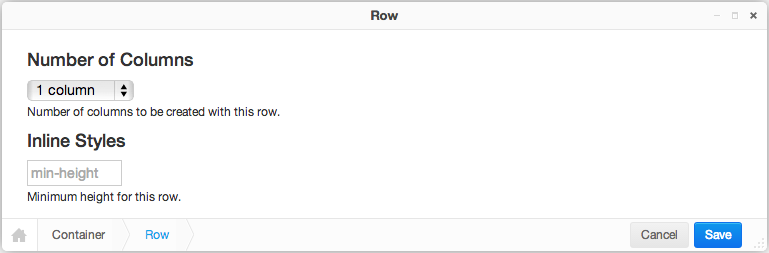
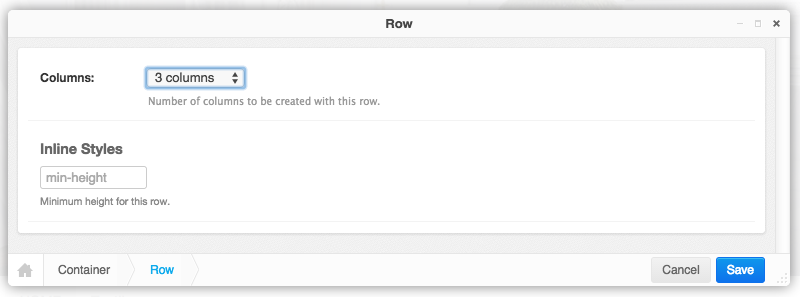
Added documentation for BS3 grid system

Changed region(s): [[0.0, 0.0, 1.0, 1.0], [0.156, 0.6087, 0.1873, 0.6364]]

diff --git a/examples/gs960/settings.py b/examples/gs960/settings.py
@@ -7,7 +7,7 @@ PROJECT_DIR = os.path.abspath(os.path.dirname(__file__))
 
 SITE_ID = 1
 
-ROOT_URLCONF = 'bootstrap3.urls'
+#ROOT_URLCONF = '.urls'
 
 SECRET_KEY = 'secret'
 

diff --git a/docs/source/bs3-grid.rst b/docs/source/bs3-grid.rst
@@ -1,0 +1,199 @@
+.. _bs3-grid:
+
+=======================
+Bootstrap 3 Grid system
+=======================
+In order to make full take full advantage of **djangocms-cascade**, you should be familiar with the
+concepts of the `Bootstrap Grid System`_, since all other Bootstrap components depend upon.
+
+.. _Bootstrap Grid System: http://getbootstrap.com/css/#grid
+
+Container
+=========
+A **Container** is the outermost component the Bootstrap framework knows of. Here the designer can
+specify the breakpoints of a Web site. By default, Bootstrap offers 4 breakpoints: “large”,
+“medium”, “small” and “tiny”. These determine for which kind of screen widths the grid system may
+switch the layout.
+
+The editor window for a Container element offers three options which affect all its child plugins.
+
+|edit-container|
+
+.. |edit-container| image:: _static/edit-container.png
+
+Small devices exclusively
+-------------------------
+If the Web site shall be optimized just for small but not for large devices, then set the
+**Widest Display** to *Medium*, *Small* or *Tiny*. In the project's style sheets, the maximum width
+of the container element, then must be reduced to that chosen breakpoint:
+
+.. code-block:: css
+
+	@media(min-width: 1200px) {
+	  .container {
+	    max-width: 970px;
+	  }
+	}
+
+or, if you prefers the SASS syntax:
+
+.. code-block:: css
+
+	@media(min-width: $screen-lg) {
+	  .container {
+	    max-width: $container-desktop;
+	  }
+	}
+
+Large devices exclusively
+-------------------------
+If the Web site shall be optimized just for large but not for small devices, then set the
+**Narrowest Display** to *Small*, *Medium* or *Large*. Here no adoption to the style sheets are
+required.
+
+Fluid Container
+---------------
+A variant of the normal Bootstrap Container is the Fluid Container. It can be enabled by a checkbox
+in the editors window. Fluid Containers have no hards breakpoints, they adopt their width to
+whatever the browser pretends.
+
+A fluid container makes it impossible to determine the maximum width of responsive images in
+advance. Hence, if responsive images shall be used, its use is discouraged. Please also see the note
+below.
+
+Row
+===
+Each Bootstrap Container may contain one or more Bootstrap Rows. A row does not accept any
+configuration setting. However, while editing, one can specify the number of columns. If adding a
+row, then this number of columns are added. If editing a row, then columns only are added, if this
+value exceeds the current number of columns. Reducing the number of columns does not delete any of
+them; they must explicitly be chosen from the context menu in structure view.
+
+|edit-row|
+
+Specifying the ``min-height`` in section **Inline Styles**, will add a style attribute to the
+``<div>`` element, rendering the row, using the chosen minimum height. The height must be specified
+in Pixels ``px`` or ``em``'s.
+
+.. |edit-row| image:: _static/edit-row.png
+
+Horizontal Rule
+===============
+A horizontal rule is used to separate rows optically from each other. The form editor accepts two
+inline styles, to specify the top and the bottom margin for such a rule.
+
+|rule-editor|
+
+.. |rule-editor| image:: _static/rule-editor.png
+
+Column
+======
+In the column editor, one can specify the width, the offset and the visibility of each column.
+These values can be set for each of the four breakpoints (*tiny*, *small*, *medium* and *large*),
+as specified by the Container Plugin.
+
+At the beginning this may feel rather complicate, but remember that **Bootstrap 3 is mobile first**,
+therefore all column settings, *first* are applied to the narrow breakpoints but can be overridden
+for larger breakpoints at a later stage. This is the reason why the editor starts with the column
+widths and offsets for tiny rather than large displays.
+
+|edit-column|
+
+.. |edit-column| image:: _static/edit-column.png
+
+.. note:: If the current column is member of a container which differs from the default breakpoint
+          settings (*large* for the widest, and *tiny* for the smallest display), then that column
+          editor shows up only with the input fields for the enabled breakpoints.
+
+Adding Plugins into a hard coded grid
+=====================================
+Sometimes the given Django template already defines a Bootstrap container, or even a row inside a
+container component. Example:
+
+.. code-block:: html
+
+	<div class="container">
+	    {% placeholder "Row Content" %}
+	</div>
+
+Here the Django templatetag ``{% placeholder "Row Content" %}`` requires a Row- rather than a
+Container-plugin. Now we must tell **djangocms-cascade** which breakpoints shall be allowed and what
+the containers extensions shall be. This must be hard-coded using the following setting:
+
+.. code-block:: python
+
+	CMS_PLACEHOLDER_CONF = {
+	    # other placeholder configurations ...
+	    'Row Content': {
+	        'plugins': ['BootstrapRowPlugin'],
+	        'parent_classes': {'BootstrapRowPlugin': []},
+	        'require_parent': False,
+	        'glossary': {
+	            'breakpoints': ['xs', 'sm', 'md', 'lg'],
+	            'container_max_widths': {'xs': 720, 'sm': 720, 'md': 940, 'lg': 1140},
+	        }
+	    }
+	}
+
+Please refer to the `DjangoCMS documentation`_ for details about these settings with the exception
+of ``glossary``. This setting is special to **djangocms-cascade**, it is a dictionary which gives
+the placeholder the ability to behave like a plugin for the Cascade app. Remember, each Cascade
+plugin stores all of its settings inside a Python dictionary which is serialized into a single
+database field. By having a placeholder behaving like a plugin, this dictionary must be emulated
+using the settings variable ``CMS_PLACEHOLDER_CONF``.
+
+.. _DjangoCMS documentation: https://django-cms.readthedocs.org/en/latest/basic_reference/configuration.html#std:setting-CMS_PLACEHOLDER_CONF
+
+Nested Columns and Rows
+=======================
+One of the great features of Bootstrap is the ability to nest Rows inside Columns. These nested Rows
+then can contain Columns of 2nd level order. A quick example:
+
+.. code-block:: html
+
+	<div class="container">
+	  <div class="row">
+	    <div class="col-md-3">
+	      Left column
+	    </div>
+	    <div class="col-md-9">
+	      <div class="row">
+	        <div class="col-md-6">
+	          Left nested column
+	        </div>
+	        <div class="col-md-6">
+	          Right nested column
+	        </div>
+	      </div>
+	    </div>
+	  </div>
+	</div>
+
+rendered, it would look like:
+
+|nested-rows|
+
+.. |nested-rows| image:: _static/nested-rows.png
+
+If a responsive image shall be placed inside a column, we must estimate the width of this image, so
+that when rendered, it fits exactly into that column. We want easy-thumbnails_ to resize our images
+to the columns width and not having the browser to up- or down-scale them.
+
+.. _easy-thumbnails: https://github.com/SmileyChris/easy-thumbnails
+
+Therefore **djangocms-cascade** keeps track of all the breakpoints and the chosen column widths.
+For simplicity, this example only uses the breakpoint “medium”. The default Boostrap settings for
+this width is 992 pixels. Doing simple math, the outer left column widths gives
+3 / 12 * 992 = 248 pixels. Hence, adding a responsive image to that column means, that
+**easy-thumnails** automatically resizes it to a width of 248 pixels.
+
+To calculate the width of the nested columns, first evaluate the width of the outer right column,
+which is 9 / 12 * 992 = 744 pixels. Then this width is subdivided again, using the the width of the
+nested columns, which is 6 / 12 * 744 = 372 pixels.
+
+These calculations are always performed recursively for all nested column and for all available
+breakpoints.
+
+.. warning:: As the name implies, a container marked as *fluid*, does not specify a fixed width.
+             Hence it is impossible to calculate the width of an image marked as responsive inside
+             such a container. Therefore, its use is discouraged.

diff --git a/docs/source/index.rst b/docs/source/index.rst
@@ -30,7 +30,7 @@ Contents:
   installation
   demo
   tutorial-bs3
-  tutorial-gs960
+  bs3-grid
   customized-plugins
   history
 
